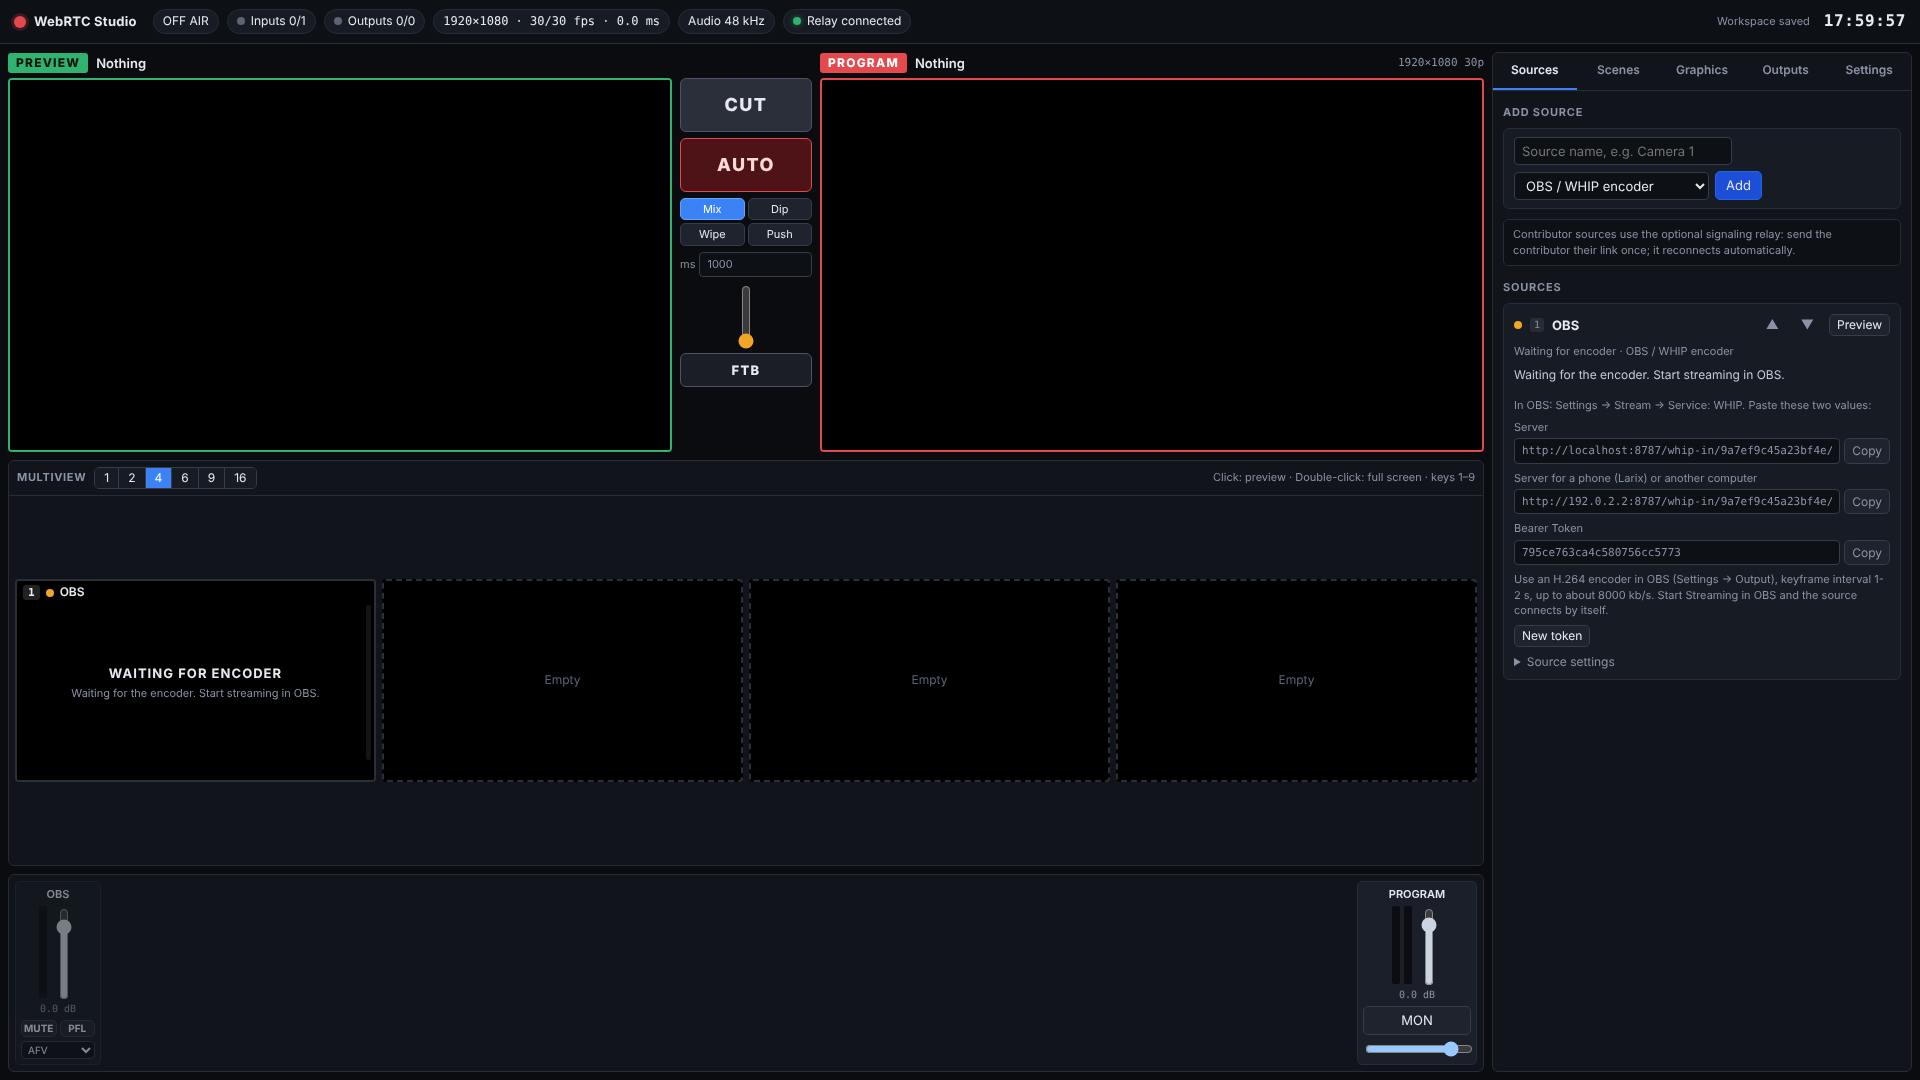
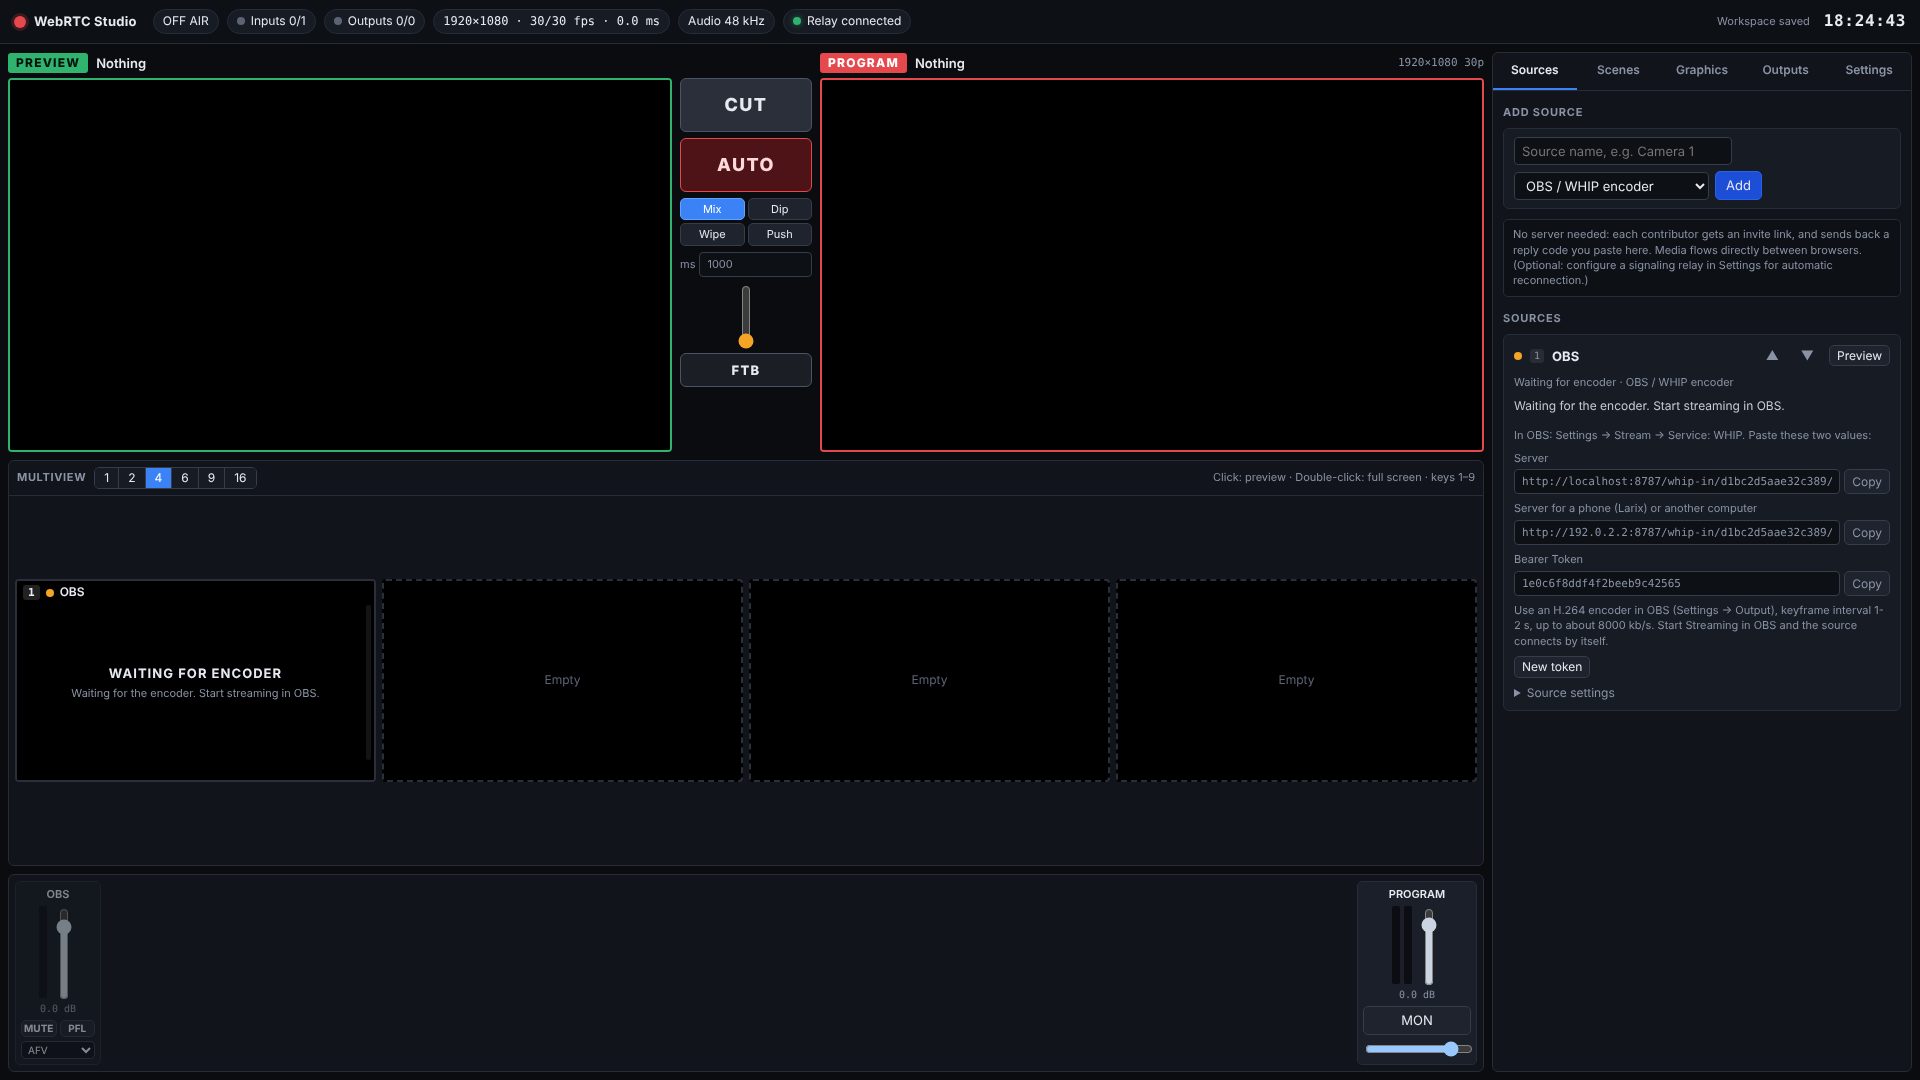
Use copy-paste codes for contributor and receiver links with a local helper
Links to a helper on localhost sent phones to themselves (and a secure page
can't reach a plain-http helper on the LAN anyway), so the phone showed
"Signaling relay unreachable". Contributor and receiver links now use
copy-paste codes unless the relay is a public https address; saved relay-mode
contributors and receivers are switched over. The helper still serves OBS and
RTMP.

Claude-Session: https://claude.ai/code/session_01TXQsWUxCXqvGfJ2jmGGNSr

Changed region(s): [[0.7812, 0.2139, 1.0, 0.6417], [0.9375, 0.275, 1.0, 0.3361], [0.9688, 0.0, 1.0, 0.0306]]

diff --git a/js/ui/side.js b/js/ui/side.js
@@ -1,5 +1,5 @@
 // Right-hand side panel: Sources, Scenes, Graphics, Outputs, Settings.
-import { el, fmtKbps, fmtRes, fmtMs, uid } from '../util.js';
+import { el, fmtKbps, fmtRes, fmtMs, uid, relayWorksRemotely } from '../util.js';
 import { SOURCE_STATES, stateLabel } from '../sources.js';
 import { codecSupported } from '../rtc.js';
 import { field, text, select, check, linkBox, statLine, CardList } from './forms.js';
@@ -67,7 +67,7 @@ function mountSourcesTab(app, root) {
     list);
 
   function renderIntro() {
-    intro.replaceChildren(store.ws.settings.signalingUrl
+    intro.replaceChildren(relayWorksRemotely(store.ws.settings.signalingUrl)
       ? 'Contributor sources use the optional signaling relay: send the contributor their link once; it reconnects automatically.'
       : 'No server needed: each contributor gets an invite link, and sends back a reply code you paste here. Media flows directly between browsers. (Optional: configure a signaling relay in Settings for automatic reconnection.)');
   }
@@ -133,7 +133,7 @@ function mountSourcesTab(app, root) {
         live ? el('button', { class: 'btn', onclick: () => sources.disconnect(s.id) }, 'Disconnect') : null));
     }
 
-    const modeOpts = store.ws.settings.signalingUrl && s.cfg.kind === 'peer'
+    const modeOpts = relayWorksRemotely(store.ws.settings.signalingUrl) && s.cfg.kind === 'peer'
       ? field('Signaling', select({ manual: 'Copy-paste codes', relay: 'Signaling relay' }, s.cfg.mode, (v) => { sources.disconnect(s.id); sources.update(s.id, { mode: v }); }))
       : null;
     const settings = el('details', {}, el('summary', {}, 'Source settings'),

diff --git a/js/ui/outputs-panel.js b/js/ui/outputs-panel.js
@@ -1,5 +1,5 @@
 // Outputs tab: programme format, receivers, WHIP and Twitch outputs.
-import { el, fmtKbps, fmtRes, fmtMs } from '../util.js';
+import { el, fmtKbps, fmtRes, fmtMs, relayWorksRemotely } from '../util.js';
 import { OUTPUT_STATES, TWITCH, defaultKbps, rtmpFormat } from '../outputs.js';
 import { downloadHelperInstaller } from './helper-install.js';
 import { sealSecret, openSecret } from '../store.js';
@@ -90,7 +90,7 @@ export function mountOutputsTab(app, root, setBadge) {
       parts.push(el('details', {}, el('summary', {}, 'Output settings'), el('div', { style: { display: 'flex', flexDirection: 'column', gap: '6px' } },
         field('Name', text(o.cfg.name, (v) => outputs.update(o.id, { name: v }))), bitrate,
         field('Video codec', select(CODECS, o.cfg.codec, (v) => outputs.update(o.id, { codec: v })), 'Applies on next start.'),
-        store.ws.settings.signalingUrl ? field('Signaling', select({ manual: 'Copy-paste codes', relay: 'Signaling relay' }, o.cfg.mode, (v) => { outputs.stop(o.id, true); outputs.update(o.id, { mode: v }); cards.refresh(o); })) : null,
+        relayWorksRemotely(store.ws.settings.signalingUrl) ? field('Signaling', select({ manual: 'Copy-paste codes', relay: 'Signaling relay' }, o.cfg.mode, (v) => { outputs.stop(o.id, true); outputs.update(o.id, { mode: v }); cards.refresh(o); })) : null,
         removeBtn(o))));
       return el('div', { class: `card ${o.state === 'live' ? 'live' : o.state === 'failed' ? 'failed' : ''}` }, ...parts);
     }

diff --git a/js/outputs.js b/js/outputs.js
@@ -8,7 +8,7 @@
 //              speak RTMP, so the programme is recorded here (MediaRecorder)
 //              and handed to the optional helper on this computer, whose
 //              ffmpeg pushes it on. Not WebRTC; adds a second or two of delay.
-import { Emitter, uid } from './util.js';
+import { Emitter, uid, relayWorksRemotely } from './util.js';
 import { encodeSignal, decodeSignal } from './codec.js';
 import { rtcConfig, waitForIceGathering, StatsSampler, diagnoseFailure, whipPublish, httpTeardown, preferCodec, codecSupported, sdpCodecs, HttpSignalError } from './rtc.js';
 
@@ -77,7 +77,7 @@ export class OutputManager extends Emitter {
     const h = this.ws.settings.format.height;
     const cfg = {
       id: uid(4), kind, name: name || (kind === 'twitch' ? 'Twitch' : kind === 'whip' ? 'WHIP output' : kind === 'rtmp' ? 'RTMP output' : `Receiver ${this.ws.outputs.length + 1}`),
-      mode: this.ws.settings.signalingUrl ? 'relay' : 'manual',
+      mode: relayWorksRemotely(this.ws.settings.signalingUrl) ? 'relay' : 'manual',
       url: kind === 'twitch' ? TWITCH.url : url,
       maxKbps: kind === 'twitch' ? Math.min(TWITCH.defaultKbps, defaultKbps(h)) : defaultKbps(h),
       codec: kind === 'twitch' ? 'h264' : 'auto',

diff --git a/js/app.js b/js/app.js
@@ -8,7 +8,7 @@ import { Switcher } from './switcher.js';
 import { Compositor } from './compositor.js';
 import { OutputManager } from './outputs.js';
 import { Relay } from './relay.js';
-import { Emitter, el, $ } from './util.js';
+import { Emitter, el, $, relayWorksRemotely } from './util.js';
 import { mountMonitors } from './ui/monitors.js';
 import { mountMultiview } from './ui/multiview.js';
 import { mountMixer } from './ui/mixer.js';
@@ -41,6 +41,15 @@ app.setupRelay = () => {
   app.relay?.close();
   app.relay = null;
   const st = store.ws.settings;
+  // Contributor and receiver links go to other devices. A local helper can't
+  // carry them (it serves OBS and RTMP only), so those use copy-paste codes.
+  if (!relayWorksRemotely(st.signalingUrl)) {
+    let changed = false;
+    for (const c of [...store.ws.sources, ...store.ws.outputs]) {
+      if ((c.kind || 'peer') === 'peer' && c.mode === 'relay') { c.mode = 'manual'; changed = true; }
+    }
+    if (changed) store.save();
+  }
   if (st.signalingUrl) {
     app.relay = new Relay(st.signalingUrl, st.room, 'studio');
     app.relay.on('state', () => app.ui.emit('relay'));

diff --git a/js/sources.js b/js/sources.js
@@ -4,7 +4,7 @@
 //  - "whep": pull from any WHEP endpoint (an external WebRTC server/encoder).
 // Every source has its own RTCPeerConnection, so one failing never affects
 // the others.
-import { Emitter, uid } from './util.js';
+import { Emitter, uid, relayWorksRemotely } from './util.js';
 import { encodeSignal, decodeSignal } from './codec.js';
 import { rtcConfig, waitForIceGathering, StatsSampler, diagnoseFailure, whepSubscribe, httpTeardown, sdpCodecs } from './rtc.js';
 
@@ -78,7 +78,7 @@ export class SourceManager extends Emitter {
   add({ name, kind = 'peer', mode, whepUrl = '' }) {
     const cfg = {
       id: uid(4), name: name || `Source ${this.ws.sources.length + 1}`, kind,
-      mode: mode || (this.ws.settings.signalingUrl ? 'relay' : 'manual'), whepUrl,
+      mode: mode || (relayWorksRemotely(this.ws.settings.signalingUrl) ? 'relay' : 'manual'), whepUrl,
     };
     if (kind === 'obs') { cfg.mode = 'relay'; cfg.token = uid(12); }
     this.ws.sources.push(cfg);

diff --git a/js/util.js b/js/util.js
@@ -1,5 +1,16 @@
 // Small shared helpers. No dependencies.
 
+// Can a phone or another computer use this relay for contributor/receiver
+// links? Not a helper on localhost (that's the phone itself there), and not
+// plain http from a secure page (browsers block it).
+export function relayWorksRemotely(url) {
+  if (!url) return false;
+  try {
+    const u = new URL(url);
+    return u.protocol === 'https:' && !/^(localhost|127\.|\[::1\])/.test(u.hostname);
+  } catch { return false; }
+}
+
 export function uid(bytes = 6) {
   const a = crypto.getRandomValues(new Uint8Array(bytes));
   return Array.from(a, (b) => b.toString(16).padStart(2, '0')).join('');
